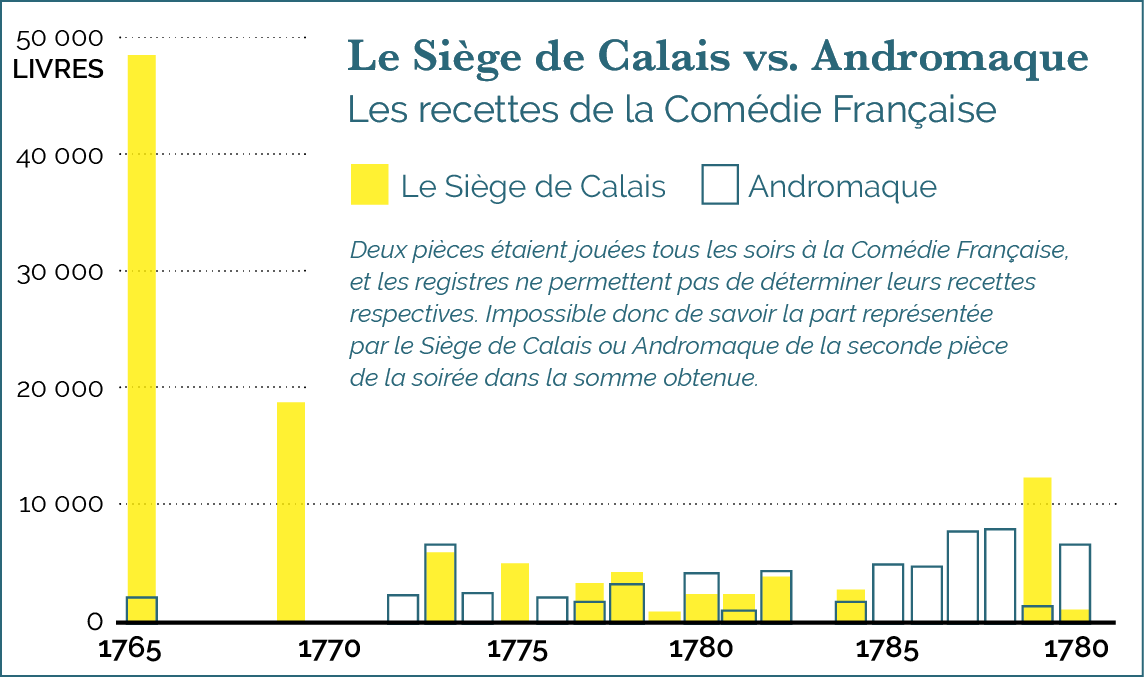
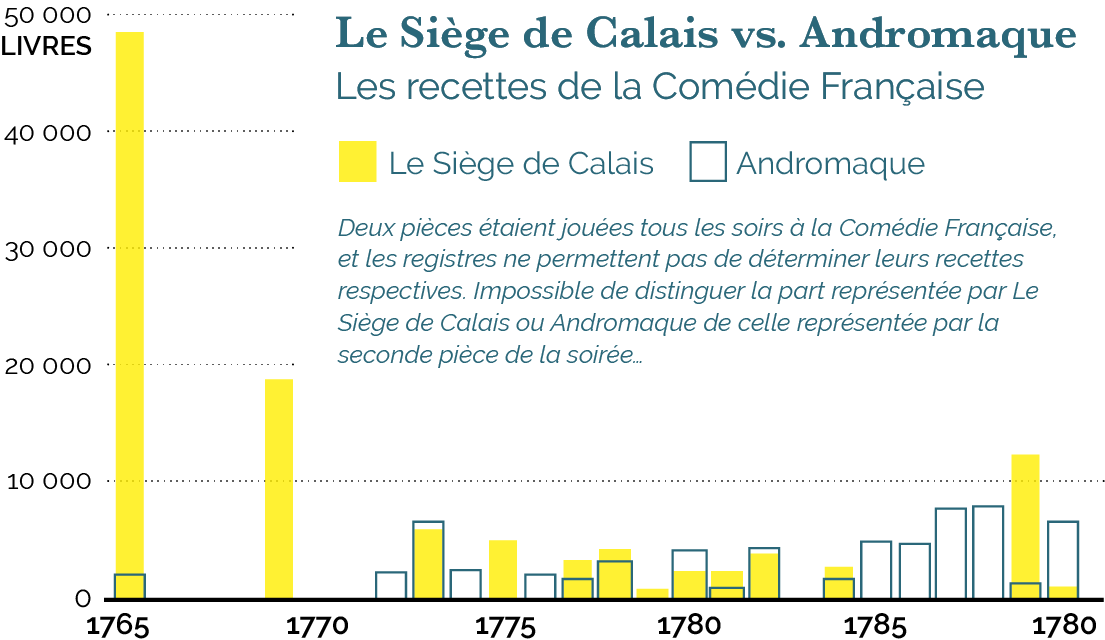
premieres modifs

diff --git a/src/index.html b/src/index.html
@@ -38,7 +38,7 @@
         <section id="intro">
             <article>
                 <div class="central">
-                    <p>Le siège de Calais est une pièce patriotique de Pierre-Laurent de Belloy, représentée en 1765, juste après que la France a dû céder une partie de son empire colonial à l’Angleterre en application du traité de Paris (1763), qui met fin à la Guerre de Sept Ans.</p>
+                    <p><em>Le siège de Calais</em> est une pièce patriotique de Pierre-Laurent de Belloy, représentée en 1765, juste après que la France a dû céder une partie de son empire colonial à l’Angleterre en application du traité de Paris (1763), qui met fin à la Guerre de Sept Ans.</p>
                     <p>De Belloy place son intrigue au XIV<sup>ème</sup> siècle et raconte une autre défaite de la France face à l’Angleterre, pendant les premières années de la Guerre de Cent Ans. Mais le dramaturge renverse le rapport de force apparent en mettant en avant la supériorité morale de la France sur son adversaire : dans la pièce, elle finit par dominer son vainqueur par l’intensité de son amour pour la patrie et pour son roi.</p>
                     <p>Suite au remarquable succès de la première représentation à la Comédie-Française, le 13 février 1765, Louis XV demande que la pièce soit jouée gratuitement devant le peuple dans le même théâtre le 12 mars, et invite la troupe à se déplacer à Versailles pour se produire devant sa Cour et lui, un honneur exceptionnel. Le dramaturge reçoit alors du roi la médaille dramatique, une distinction dont il sera le premier et le seul bénéficiaire.</p>
                     <p>Mais les éloges nombreux que suscite la pièce n’empêchent pas quelques voix discordantes de s’élever pour dénoncer les faiblesses dramaturgiques ou les dangers idéologiques de la tragédie.
@@ -54,13 +54,16 @@
                         <img src="assets/portraitdebelloy.jpg" />
                         <p>
                             Pierre-Laurent de Buirette est né le 17 novembre 1727 à Saint-Flour (Auvergne) dans une famille aisée de notaires. Orphelin à 5 ans, il est élevé par son oncle qui compte sur lui pour reprendre le cabinet familial.</p>
-                        <p>Pourtant, le jeune homme rêve de théâtre. Il prend donc le pseudonyme de Dormont de Belloy pour échapper à sa destinée et continuer à pratiquer sa passion. Quand son oncle le menace de prison s’il refuse de travailler pour lui, de Belloy part travailler pour une troupe russe à Saint-Pétersbourg. Ce n’est qu’à la mort de cet oncle, en 1762, qu’il peut rentrer définitivement en France et exercer son métier de dramaturge tragique en présentant sa tragédie Zelmire à la Comédie-Française, avec un honorable succès.</p>
-                        <p>L’année suivante, de Belloy se penche sur l’écriture du Siège de Calais. En tout, il est l’auteur de six tragédies, qui furent toutes représentées à la Comédie-Française. Le dramaturge meurt à l’âge de 47 ans des suites d’une maladie.
+                        <p>Pourtant, le jeune homme rêve de théâtre. Il prend donc le pseudonyme de Dormont de Belloy pour échapper à sa destinée et continuer à pratiquer sa passion. Quand son oncle le menace de prison s’il refuse de travailler pour lui, de Belloy part travailler pour une troupe russe à Saint-Pétersbourg. Ce n’est qu’à la mort de cet oncle, en 1762, qu’il peut rentrer définitivement en France et exercer son métier de dramaturge tragique en présentant sa tragédie <em>Zelmire</em> à la Comédie-Française, avec un honorable succès.</p>
+                        <p>L’année suivante, de Belloy se penche sur l’écriture du <em>Siège de Calais</em>. En tout, il est l’auteur de six tragédies, qui furent toutes représentées à la Comédie-Française. Le dramaturge meurt à l’âge de 47 ans des suites d’une maladie.
                         </p>
                     </div>
                     <div><a href="#auteur" rel="modal:open">L'auteur</a></div>
                     <div id="docs-epoque" class="modal">
                         <img src="assets/registre.png">
+                        <p>Le pouvoir a programmé des représentations gratuites du Siège de Calais pour que le peuple puisse voir la pièce. <br />Ici, la page du registre des recettes de la Comédie-Française le soir du 12 mars 1765, où on donne le <em>Siège de Calais</em> gratis.</p>
+                        <img src="assets/public_siegedecalais.jpeg">
+                        <p>Gravure <em>“Le public fait la queue pour assister au Siège de Calais le 13 février 1765 à la Comédie-Française rue neuve Saint Germain des Prés</em></p>
                     </div>
                     <div><a href="#docs-epoque" rel="modal:open">Document d'époque</a></div>
                 </aside>
@@ -68,12 +71,23 @@
                     <p>
                         <h3>Le Siège de Calais :<br />le succès quantifié</h3> La pièce Le Siège de Calais a connu un succès fulgurant dès sa création en 1765. Les recettes de la Comédie-Française (matérialisées par le graphique ci-dessous) illustrent très bien ce phénomène.</p>
                     <p>
-                        En revanche, la comparaison avec un autre grand succès, plus ancien, l’Andromaque de Racine, fait apparaître le caractère éphémère de la gloire du Siège de Calais. Alors qu’on ne représente plus du tout le blockbuster de Belloy, Andromaque fait toujours partie des pièces les plus jouées à la Comédie-Française.
+                        En revanche, la comparaison avec un autre grand succès, plus ancien, l’<em>Andromaque</em> de Racine, fait apparaître le caractère éphémère de la gloire du <em>Siège de Calais</em>. Alors qu’on ne représente plus du tout le blockbuster de Belloy, <em>Andromaque</em> fait toujours partie des pièces les plus jouées à la Comédie-Française.
                     </p>
+                </div>
+                <aside class="right">
+                    <a href="#" class="audio play">
+                        <img src="assets/picto_son.png" />
+                        <audio src="assets/parodie.mp3">Your browser does not support the audio element.</audio>
+                    </a>
+                </aside>
+                <div class="central">
                     <figure>
-                        <img src="assets/recettes.png" />
+                        <img src="assets/Graph_Recettes.png" />
                         <figcaption>Recettes de la Comédie Française</figcaption>
                     </figure>
+                    <p>
+                        <em>“Le mardi 12 mars, on a représenté la tragédie du Siège de Calais, gratis, pour le peuple. Mesdames les poissardes de la Halle ont occupé les premières loges. Messieurs les charbonniers sont arrivés tambour battant et ont été reçus avec tous les honneurs dus à leur rang. Dans les entr’actes, Mlle Clairon a donné à boire à cette illustre compagnie, qui a applaudi tous les acteurs et toutes les tirades de la tragédie. On a crié, à la fin, </em>“Vive le roi et monsieur de Belloy !”<em> et l’auteur a été obligé de se montrer. [...] Tout ce qui se passe au sujet de cette tragédie a un peu l’air d’un rêve.”</em> <br /><br />Correspondance littéraire, philosophique et critique de Grimm et Diderot, année 1764-1765
+                    </p>
                 </div>
             </article>
             <article class="bleu">
@@ -85,7 +99,7 @@
                 </aside>
                 <div class="central">
                     <p>
-                        <h3>Une diffusion<br />à l'échelle européenne</h3> Lorem ipsum dolor sit amet, consectetur adipiscing elit. Fusce elementum fringilla quam et suscipit. Cras vestibulum, dolor nec ornare dictum, elit ligula suscipit orci, at elementum sem urna vitae lacus. Sed eu imperdiet tortor, sed euismod dui. Phasellus auctor lorem dolor, nec mollis elit fringilla a. Nulla tincidunt justo at augue varius viverra.
+                        <h3>Une diffusion<br />à l'échelle européenne</h3> <em>Le Siège de Calais</em> a vite été traduit en anglais et représenté sur la scène londonienne dès mars 1765. Tobias Smollett, critique, poète et romancier anglais, bon connaisseur de la littérature française, publia alors une sévère critique de la pièce dans <em>The Critical review</em>. Il reproche à de Belloy sa xénophobie, mais apprécie le patriotisme de certaines tirades.
                     </p>
                 </div>
             </article>
@@ -94,14 +108,8 @@
                 <figcaption>Carte des représentations</figcaption>
             </figure>
             <article>
-                <aside class="right">
-                    <a href="#" class="audio play">
-                        <img src="assets/picto_son.png" />
-                        <audio src="assets/parodie.mp3">Your browser does not support the audio element.</audio>
-                    </a>
-                </aside>
                 <div class="central">
-                    <p>Le Siège de Calais a beaucoup fait parler de lui. À Paris, mais aussi en Province et au-delà des frontières, de Rome à Copenhague, en passant par Berlin et Londres, de nombreuses lettres mentionnent cette pièce. On sait par ailleurs que cette pièce fut jouée gratuitement à Saint-Domingue sur ordre du Roi afin d’éveiller le sentiment patriotique jusque dans les territoires éloignés.
+                    <p>Le <em>Siège de Calais</em> a beaucoup fait parler de lui. À Paris, mais aussi en Province et au-delà des frontières, de Rome à Copenhague, en passant par Berlin et Londres, de nombreuses lettres mentionnent cette pièce. On sait par ailleurs que cette pièce fut jouée gratuitement à Saint-Domingue sur ordre du Roi afin d’éveiller le sentiment patriotique jusque dans les territoires éloignés.
                     </p>
                 </div>
             </article>
@@ -132,7 +140,7 @@
                             <div class="front"></div>
                             <div class="back">
                                 <div id="roiexpli" class="modal">Philippe VI de Valois a seulement 18 ans durant le siège de Calais. Malgré son jeune âge, il est adoré de son peuple.</div>
-                                <p class="name"><a href="#roiexpli" rel="modal:open">Le Roi de France</a></p>
+                                <p class="name"><a href="#roiexpli" rel="modal:open">Philippe VI de Valois<br /><small>Roi de France</small></a></p>
                             </div>
                         </div>
                     </div>
@@ -172,7 +180,7 @@
                             </div>
                         </div>
                     </div>
-                    <div id="harcourt" class="personnage jaune flip-container">
+                    <div id="harcourt" class="personnage bleu flip-container">
                         <div class="flipper">
                             <div class="front"></div>
                             <div class="back">
@@ -212,7 +220,7 @@
                 <div class="central">
                     <h3>De vraies montagnes russes</h3>
                     <figure>
-                        <img src="assets/honneur.png">
+                        <img src="assets/Honneur_Salut-01.png">
                         <figcaption>Honneur/Déshonneur vs Salut/Mort</figcaption>
                     </figure>
                 </div>
@@ -228,18 +236,18 @@
             <article>
                 <div class="central">
                     <p>
-                        <h3>L'histoire avec un grand H</h3>De Belloy écrit Le siège de Calais après la Guerre de Sept Ans qui voit s’affronter à nouveau Anglais et Français pour la domination des territoires étrangers. La frise ci-dessus replace l'événement historique du siège de Calais au XIV<sup>e</sup> siècle par rapport à la représentation de la pièce en 1765, et donne les grandes dates utiles pour comprendre les enjeux de la pièce et de l’événement qu’elle a constitué.
+                        <h3>L'histoire avec un grand H</h3>De Belloy écrit <em>Le siège de Calais</em> après la Guerre de Sept Ans qui voit s’affronter à nouveau Anglais et Français pour la domination des territoires étrangers. La frise ci-dessus replace l'événement historique du siège de Calais au XIV<sup>e</sup> siècle par rapport à la représentation de la pièce en 1765, et donne les grandes dates utiles pour comprendre les enjeux de la pièce et de l’événement qu’elle a constitué.
                     </p>
                 </div>
             </article>
             <article>
                 <div class="central">
                     <p>
-                        <h3>Les raisons de la colère</h3> Après la mort de Charles le Bel, arrivée en 1328, la couronne fut dévolue à Philippe de Valois, qui se trouva le plus proche parent de la ligne [sic] masculine du roi. Edouard III, roi d’Angleterre, revendiqua la succession, et prétendit qu’elle ne pouvait lui être disputée. Il était par sa mère, Isabelle de France, petit-fils de Philippe le Bel.</p>
-                    <p>Comme il n’osa choquer ouvertement la Loi Salique, à laquelle il voyait les Français trop attachés, il soutint seulement d’abord que cette loi ne lui pouvait être appliquée ; qu’il était vrai qu’elle excluait les femmes, parce qu’elle ne voulait pas que des femmes commandassent à des hommes : mais il disait qu’elle ne donnait point d’exclusion au plus proche héritier mâle, quoique descendu d’une femme. Qu’il était dans ce cas le plus proche héritier mâle ; et qu’ainsi la couronne ne lui pouvait être légitimement contestée.</p>
-                    <p>Philippe de Valois au contraire soutenait que la Loi Salique, en excluant les femmes, excluait nécessairement leurs descendants, parce qu’il n’est pas possible que le droit de succéder puisse être transmis par une personne qui ne l’a point. […] Alors Edouard voulut contester la Loi Salique et la traiter de supposée. La querelle s’échauffa. Les États du royaume s’assemblèrent, les ambassadeurs du roi d’Angleterre furent entendus, et n’oublièrent rien pour faire valoir sa prétention.</p>
-                    <p>Mais malgré toutes leurs subtilités, la Loi Salique prévalut, et par le consentement unanime de la Nation, le droit de Philippe de Valois fut confirmé. Edouard qui avait acquiescé, réveille sa prétention plusieurs années après, et prend le parti de suppléer à la justice par la force. Il entre en France avec une puissante armée. Il se présente devant Calais, qui refuse de le reconnaître ; et après un long siège, il met cette ville en état d’être emportée d’assaut.</p>
-                    <p>(Introduction rédigée par de Belloy pour l’édition complète de ses œuvres )
+                        <h3>Les raisons de la colère</h3><em>Après la mort de Charles le Bel, arrivée en 1328, la couronne fut dévolue à Philippe de Valois, qui se trouva le plus proche parent de la ligne [sic] masculine du roi. Edouard III, roi d’Angleterre, revendiqua la succession, et prétendit qu’elle ne pouvait lui être disputée. Il était par sa mère, Isabelle de France, petit-fils de Philippe le Bel.</em></p>
+                    <p><em>Comme il n’osa choquer ouvertement la Loi Salique, à laquelle il voyait les Français trop attachés, il soutint seulement d’abord que cette loi ne lui pouvait être appliquée ; qu’il était vrai qu’elle excluait les femmes, parce qu’elle ne voulait pas que des femmes commandassent à des hommes : mais il disait qu’elle ne donnait point d’exclusion au plus proche héritier mâle, quoique descendu d’une femme. Qu’il était dans ce cas le plus proche héritier mâle ; et qu’ainsi la couronne ne lui pouvait être légitimement contestée.</em></p>
+                    <p><em>Philippe de Valois au contraire soutenait que la Loi Salique, en excluant les femmes, excluait nécessairement leurs descendants, parce qu’il n’est pas possible que le droit de succéder puisse être transmis par une personne qui ne l’a point. […] Alors Edouard voulut contester la Loi Salique et la traiter de supposée. La querelle s’échauffa. Les États du royaume s’assemblèrent, les ambassadeurs du roi d’Angleterre furent entendus, et n’oublièrent rien pour faire valoir sa prétention.</em></p>
+                    <p><em>Mais malgré toutes leurs subtilités, la Loi Salique prévalut, et par le consentement unanime de la Nation, le droit de Philippe de Valois fut confirmé. Edouard qui avait acquiescé, réveille sa prétention plusieurs années après, et prend le parti de suppléer à la justice par la force. Il entre en France avec une puissante armée. Il se présente devant Calais, qui refuse de le reconnaître ; et après un long siège, il met cette ville en état d’être emportée d’assaut.</em></p>
+                    <p>Introduction rédigée par de Belloy pour l’édition complète de ses œuvres
                     </p>
                 </div>
             </article>
@@ -279,7 +287,7 @@
                 </aside>
                 <div class="central">
                     <p>
-                        <h3>... qui laisse une empreinte<br />sur la ville</h3> Qu’en est-il aujourd’hui du Siège de Calais ? Plongez dans la ville à la découverte de ses places, monuments et établissements dédiés à la mémoire de cet événement qui a marqué la ville durant des décennies. De nombreux bâtiments portent le nom de Saint Pierre, qui concentre l’héroïsme des six bourgeois dans la mémoire calaisienne.</p>
+                        <h3>... qui laisse une empreinte<br />sur la ville</h3> Qu’en est-il aujourd’hui du siège de Calais ? Plongez dans la ville à la découverte de ses places, monuments et établissements dédiés à la mémoire de cet événement qui a marqué la ville durant des décennies. De nombreux bâtiments portent le nom de Saint Pierre, qui concentre l’héroïsme des six bourgeois dans la mémoire calaisienne.</p>
                     <p>Parmi eux, on trouve notamment des établissements scolaires, tels que le Centre scolaire Saint Pierre ou le Lycée professionnel Saint Pierre. Quelques commerces aussi ont joué le jeu en reprenant le nom du héros, comme la boulangerie Saint Pierre. Une rue porte également le nom du plus connu des six bourgeois : rue Eustache de Saint Pierre. Mais de Belloy, le dramaturge qui mit sur la scène ce grand moment de l’histoire de Calais et rendit la ville célèbre dans le monde au xviiie siècle, est lui aussi honoré d’une rue à son nom.</p>
                     <p>Enfin, l’épisode lui-même est célébré dans le musée des Beaux Arts de la ville. La première salle de sa visite est réservée à Rodin, et présente des études autour de sa sculpture Les bourgeois de Calais. Le Grand Théâtre, qui a abrité en 1765 la fameuse pièce de Belloy, est toujours là. Pour finir, le Parc Saint Pierre, où l’on peut retrouver la célèbre statue des six bourgeois, constitue le coeur de la visite de la ville et révèle l’importance du mythe dans la construction symbolique de son identité aujourd’hui. Sur ce, bonne promenade !
                     </p>
@@ -315,16 +323,17 @@
                     <p>
                         <h3>Le mythe au service du patriotisme</h3>
                     </p>
-                    <figure>
+                    <!-- <figure>
                         <video controls src="assets/amourpatrie.mp4">Visite virtuelle de Calais</video>
-                    </figure>
-                    <blockquote>
-                            Que vous dirai-je, mon cher confrère ? votre pièce fait aimer la France et votre personne
-                            <p class="source">Voltaire, Lettre à de Belloy 31 mars 1765</p>
-                        </blockquote>
-                    	<p>
+                    </figure> -->
+                    <p>
                     	L’amour de la patrie est l’un des sujets les plus récurrents de cette pièce, et il est aussi un thème important du discours politique contemporain.
-                    	</p><p>
+                    </p>
+                    <blockquote class="left">
+                        Que vous dirai-je, mon cher confrère ? votre pièce fait aimer la France et votre personne
+                        <p class="source">Voltaire, Lettre à de Belloy 31 mars 1765</p>
+                    </blockquote>
+                    <p>
                         Cette vidéo propose un aperçu de la façon dont les leaders d’aujourd’hui évoquent ce sujet délicat, qui oblige à penser le rapport à soi et le rapport aux autres. Ps : Il ne faut pas confondre patriotisme et nationalisme.
                     </p>
                 </div>
@@ -364,7 +373,9 @@
             </aside>
             <div id="sources">
                 <h4>Sources</h4>
-                <p>Lorem ipsum dolor sit amet, consectetur adipiscing elit. Fusce elementum fringilla quam et suscipit.</p>
+                <p>Édition L Connors<br />
+                    Jean-Marie Moeglin : <em>Les bourgeois de Calais, Essai sur un mythe historique</em>, Albin Michel, Paris, 2002
+                </p>
             </div>
             <div id="credits">
                 <h4>Crédits</h4>

diff --git a/src/styles/globals.scss b/src/styles/globals.scss
@@ -167,6 +167,11 @@ main {
 						font-weight: normal;
 						font-style: normal;
 					}
+					&.left {
+						float: left;
+						margin-left: -90px;
+						margin-right: 0px;
+					}
 				}
 			}
 			h3 {
@@ -175,7 +180,7 @@ main {
 				font-weight: 600;
 				font-size: 25px;
 				// width: 300px;
-				padding-right: 15px;
+				padding-right: 20px;
 				margin: 0;
 				float: left;
 				text-align: left;
